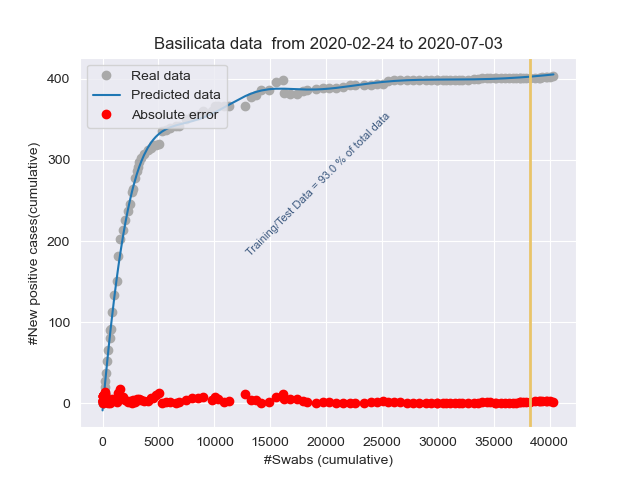
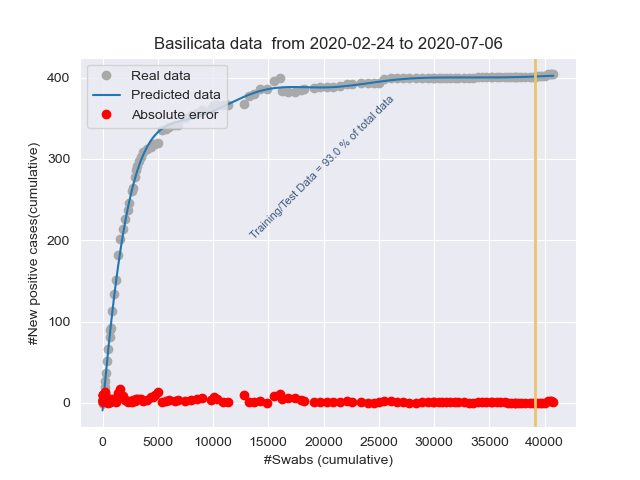
Add files via upload

diff --git a/stat_Friuli Venezia Giulia.html b/stat_Friuli Venezia Giulia.html
@@ -1,1 +1,1 @@
-<!DOCTYPE html><html lang="it"><head><title>Results</title><meta charset="utf-8"><meta name="viewport" content="width=device-width, initial-scale=1"><link rel="stylesheet" href="bootstrap.min.css"><script src="https://ajax.googleapis.com/ajax/libs/jquery/3.4.1/jquery.min.js"></script><script src="https://maxcdn.bootstrapcdn.com/bootstrap/3.4.1/js/bootstrap.min.js"></script></head><body><h3>Day: 2020-07-03</h3><p class="lead my-3">New positive cases: <b>4</b></p><p class="lead my-3">Variation of positive cases: <b>100.0%</b></p><p class="lead my-3">Number of swabs: <b>2580.0</b></p><p class="lead my-3">Variation of swabs: <b>1.33%</b></p><p class="lead my-3">Postive cases/Swabs: <b>0.16 %</b></p><p class="lead my-3">Number of people admitted to Intensive care: <b>0</b></p><p class="lead my-3">Number of recovered people: <b>-2.0</b></p><p class="lead my-3">Number of dead people: <b>0.0</b></p><h3>Total</h3><p class="lead my-3">Population of  Friuli Venezia Giulia: <b>1215220</b> <a href="http://dati.istat.it/Index.aspx?QueryId=18548" target="_blank">ISTAT data</a></p><p class="lead my-3">Total number of positive cases from 2020-02-24 00:00:00 to 2020-07-03: <b> 3318</b></p><p class="lead my-3">Total number of swabs from 2020-02-24 00:00:00 to 2020-07-03: <b> 196975</b></p><p class="lead my-3">TotalSwabs/Population: <b> 16.21%</b></p></body></html>
+<!DOCTYPE html><html lang="it"><head><title>Results</title><meta charset="utf-8"><meta name="viewport" content="width=device-width, initial-scale=1"><link rel="stylesheet" href="bootstrap.min.css"><script src="https://ajax.googleapis.com/ajax/libs/jquery/3.4.1/jquery.min.js"></script><script src="https://maxcdn.bootstrapcdn.com/bootstrap/3.4.1/js/bootstrap.min.js"></script></head><body><h3>Day: 2020-07-06</h3><p class="lead my-3">New positive cases: <b>0</b></p><p class="lead my-3">Variation of positive cases: <b>0.0%</b></p><p class="lead my-3">Number of swabs: <b>663.0</b></p><p class="lead my-3">Variation of swabs: <b>0.33%</b></p><p class="lead my-3">Postive cases/Swabs: <b>0.0 %</b></p><p class="lead my-3">Number of people admitted to Intensive care: <b>0</b></p><p class="lead my-3">Number of recovered people: <b>2.0</b></p><p class="lead my-3">Number of dead people: <b>0.0</b></p><h3>Total</h3><p class="lead my-3">Population of  Friuli Venezia Giulia: <b>1215220</b> <a href="http://dati.istat.it/Index.aspx?QueryId=18548" target="_blank">ISTAT data</a></p><p class="lead my-3">Total number of positive cases from 2020-02-24 00:00:00 to 2020-07-06: <b> 3326</b></p><p class="lead my-3">Total number of swabs from 2020-02-24 00:00:00 to 2020-07-06: <b> 200651</b></p><p class="lead my-3">TotalSwabs/Population: <b> 16.51%</b></p></body></html>

diff --git a/stat_Lombardia.html b/stat_Lombardia.html
@@ -1,1 +1,1 @@
-<!DOCTYPE html><html lang="it"><head><title>Results</title><meta charset="utf-8"><meta name="viewport" content="width=device-width, initial-scale=1"><link rel="stylesheet" href="bootstrap.min.css"><script src="https://ajax.googleapis.com/ajax/libs/jquery/3.4.1/jquery.min.js"></script><script src="https://maxcdn.bootstrapcdn.com/bootstrap/3.4.1/js/bootstrap.min.js"></script></head><body><h3>Day: 2020-07-03</h3><p class="lead my-3">New positive cases: <b>115</b></p><p class="lead my-3">Variation of positive cases: <b>17.35%</b></p><p class="lead my-3">Number of swabs: <b>9758.0</b></p><p class="lead my-3">Variation of swabs: <b>0.93%</b></p><p class="lead my-3">Postive cases/Swabs: <b>1.18 %</b></p><p class="lead my-3">Number of people admitted to Intensive care: <b>41</b></p><p class="lead my-3">Number of recovered people: <b>261.0</b></p><p class="lead my-3">Number of dead people: <b>4.0</b></p><h3>Total</h3><p class="lead my-3">Population of  Lombardia: <b>10060574</b> <a href="http://dati.istat.it/Index.aspx?QueryId=18548" target="_blank">ISTAT data</a></p><p class="lead my-3">Total number of positive cases from 2020-02-24 00:00:00 to 2020-07-03: <b> 94217</b></p><p class="lead my-3">Total number of swabs from 2020-02-24 00:00:00 to 2020-07-03: <b> 1064173</b></p><p class="lead my-3">TotalSwabs/Population: <b> 10.58%</b></p></body></html>
+<!DOCTYPE html><html lang="it"><head><title>Results</title><meta charset="utf-8"><meta name="viewport" content="width=device-width, initial-scale=1"><link rel="stylesheet" href="bootstrap.min.css"><script src="https://ajax.googleapis.com/ajax/libs/jquery/3.4.1/jquery.min.js"></script><script src="https://maxcdn.bootstrapcdn.com/bootstrap/3.4.1/js/bootstrap.min.js"></script></head><body><h3>Day: 2020-07-06</h3><p class="lead my-3">New positive cases: <b>111</b></p><p class="lead my-3">Variation of positive cases: <b>13.27%</b></p><p class="lead my-3">Number of swabs: <b>5855.0</b></p><p class="lead my-3">Variation of swabs: <b>0.54%</b></p><p class="lead my-3">Postive cases/Swabs: <b>1.9 %</b></p><p class="lead my-3">Number of people admitted to Intensive care: <b>36</b></p><p class="lead my-3">Number of recovered people: <b>61.0</b></p><p class="lead my-3">Number of dead people: <b>3.0</b></p><h3>Total</h3><p class="lead my-3">Population of  Lombardia: <b>10060574</b> <a href="http://dati.istat.it/Index.aspx?QueryId=18548" target="_blank">ISTAT data</a></p><p class="lead my-3">Total number of positive cases from 2020-02-24 00:00:00 to 2020-07-06: <b> 94521</b></p><p class="lead my-3">Total number of swabs from 2020-02-24 00:00:00 to 2020-07-06: <b> 1088960</b></p><p class="lead my-3">TotalSwabs/Population: <b> 10.82%</b></p></body></html>

diff --git a/stat_Emilia-Romagna.html b/stat_Emilia-Romagna.html
@@ -1,1 +1,1 @@
-<!DOCTYPE html><html lang="it"><head><title>Results</title><meta charset="utf-8"><meta name="viewport" content="width=device-width, initial-scale=1"><link rel="stylesheet" href="bootstrap.min.css"><script src="https://ajax.googleapis.com/ajax/libs/jquery/3.4.1/jquery.min.js"></script><script src="https://maxcdn.bootstrapcdn.com/bootstrap/3.4.1/js/bootstrap.min.js"></script></head><body><h3>Day: 2020-07-03</h3><p class="lead my-3">New positive cases: <b>27</b></p><p class="lead my-3">Variation of positive cases: <b>0.0%</b></p><p class="lead my-3">Number of swabs: <b>4403.0</b></p><p class="lead my-3">Variation of swabs: <b>0.87%</b></p><p class="lead my-3">Postive cases/Swabs: <b>0.61 %</b></p><p class="lead my-3">Number of people admitted to Intensive care: <b>9</b></p><p class="lead my-3">Number of recovered people: <b>17.0</b></p><p class="lead my-3">Number of dead people: <b>2.0</b></p><h3>Total</h3><p class="lead my-3">Population of  Emilia-Romagna: <b>4459477</b> <a href="http://dati.istat.it/Index.aspx?QueryId=18548" target="_blank">ISTAT data</a></p><p class="lead my-3">Total number of positive cases from 2020-02-24 00:00:00 to 2020-07-03: <b> 28566</b></p><p class="lead my-3">Total number of swabs from 2020-02-24 00:00:00 to 2020-07-03: <b> 508691</b></p><p class="lead my-3">TotalSwabs/Population: <b> 11.41%</b></p></body></html>
+<!DOCTYPE html><html lang="it"><head><title>Results</title><meta charset="utf-8"><meta name="viewport" content="width=device-width, initial-scale=1"><link rel="stylesheet" href="bootstrap.min.css"><script src="https://ajax.googleapis.com/ajax/libs/jquery/3.4.1/jquery.min.js"></script><script src="https://maxcdn.bootstrapcdn.com/bootstrap/3.4.1/js/bootstrap.min.js"></script></head><body><h3>Day: 2020-07-06</h3><p class="lead my-3">New positive cases: <b>38</b></p><p class="lead my-3">Variation of positive cases: <b>58.33%</b></p><p class="lead my-3">Number of swabs: <b>2371.0</b></p><p class="lead my-3">Variation of swabs: <b>0.46%</b></p><p class="lead my-3">Postive cases/Swabs: <b>1.6 %</b></p><p class="lead my-3">Number of people admitted to Intensive care: <b>9</b></p><p class="lead my-3">Number of recovered people: <b>3.0</b></p><p class="lead my-3">Number of dead people: <b>0.0</b></p><h3>Total</h3><p class="lead my-3">Population of  Emilia-Romagna: <b>4459477</b> <a href="http://dati.istat.it/Index.aspx?QueryId=18548" target="_blank">ISTAT data</a></p><p class="lead my-3">Total number of positive cases from 2020-02-24 00:00:00 to 2020-07-06: <b> 28679</b></p><p class="lead my-3">Total number of swabs from 2020-02-24 00:00:00 to 2020-07-06: <b> 519586</b></p><p class="lead my-3">TotalSwabs/Population: <b> 11.65%</b></p></body></html>

diff --git a/stat_Italy.html b/stat_Italy.html
@@ -1,1 +1,1 @@
-<!DOCTYPE html><html lang="it"><head><title>Results</title><meta charset="utf-8"><meta name="viewport" content="width=device-width, initial-scale=1"><link rel="stylesheet" href="bootstrap.min.css"><script src="https://ajax.googleapis.com/ajax/libs/jquery/3.4.1/jquery.min.js"></script><script src="https://maxcdn.bootstrapcdn.com/bootstrap/3.4.1/js/bootstrap.min.js"></script></head><body><h3>Day: 2020-07-03</h3><p class="lead my-3">New positive cases: <b>223</b></p><p class="lead my-3">Variation of positive cases: <b>10.95%</b></p><p class="lead my-3">Number of swabs: <b>77096.0</b></p><p class="lead my-3">Variation of swabs: <b>1.4%</b></p><p class="lead my-3">Postive cases/Swabs: <b>0.29 %</b></p><p class="lead my-3">Number of people admitted to Intensive care: <b>79</b></p><p class="lead my-3">Number of recovered people: <b>384.0</b></p><p class="lead my-3">Number of dead people: <b>15.0</b></p><h3>Total</h3><p class="lead my-3">Population of  Italy: <b>60359546</b> <a href="http://dati.istat.it/Index.aspx?QueryId=18548" target="_blank">ISTAT data</a></p><p class="lead my-3">Total number of positive cases from 2020-02-24 00:00:00 to 2020-07-03: <b> 241206</b></p><p class="lead my-3">Total number of swabs from 2020-02-24 00:00:00 to 2020-07-03: <b> 5575815</b></p><p class="lead my-3">TotalSwabs/Population: <b> 9.24%</b></p></body></html>
+<!DOCTYPE html><html lang="it"><head><title>Results</title><meta charset="utf-8"><meta name="viewport" content="width=device-width, initial-scale=1"><link rel="stylesheet" href="bootstrap.min.css"><script src="https://ajax.googleapis.com/ajax/libs/jquery/3.4.1/jquery.min.js"></script><script src="https://maxcdn.bootstrapcdn.com/bootstrap/3.4.1/js/bootstrap.min.js"></script></head><body><h3>Day: 2020-07-06</h3><p class="lead my-3">New positive cases: <b>208</b></p><p class="lead my-3">Variation of positive cases: <b>8.33%</b></p><p class="lead my-3">Number of swabs: <b>22166.0</b></p><p class="lead my-3">Variation of swabs: <b>0.39%</b></p><p class="lead my-3">Postive cases/Swabs: <b>0.94 %</b></p><p class="lead my-3">Number of people admitted to Intensive care: <b>72</b></p><p class="lead my-3">Number of recovered people: <b>133.0</b></p><p class="lead my-3">Number of dead people: <b>8.0</b></p><h3>Total</h3><p class="lead my-3">Population of  Italy: <b>60359546</b> <a href="http://dati.istat.it/Index.aspx?QueryId=18548" target="_blank">ISTAT data</a></p><p class="lead my-3">Total number of positive cases from 2020-02-24 00:00:00 to 2020-07-06: <b> 241841</b></p><p class="lead my-3">Total number of swabs from 2020-02-24 00:00:00 to 2020-07-06: <b> 5660454</b></p><p class="lead my-3">TotalSwabs/Population: <b> 9.38%</b></p></body></html>

diff --git a/stat_Piemonte.html b/stat_Piemonte.html
@@ -1,1 +1,1 @@
-<!DOCTYPE html><html lang="it"><head><title>Results</title><meta charset="utf-8"><meta name="viewport" content="width=device-width, initial-scale=1"><link rel="stylesheet" href="bootstrap.min.css"><script src="https://ajax.googleapis.com/ajax/libs/jquery/3.4.1/jquery.min.js"></script><script src="https://maxcdn.bootstrapcdn.com/bootstrap/3.4.1/js/bootstrap.min.js"></script></head><body><h3>Day: 2020-07-03</h3><p class="lead my-3">New positive cases: <b>16</b></p><p class="lead my-3">Variation of positive cases: <b>23.08%</b></p><p class="lead my-3">Number of swabs: <b>29405.0</b></p><p class="lead my-3">Variation of swabs: <b>6.96%</b></p><p class="lead my-3">Postive cases/Swabs: <b>0.05 %</b></p><p class="lead my-3">Number of people admitted to Intensive care: <b>10</b></p><p class="lead my-3">Number of recovered people: <b>36.0</b></p><p class="lead my-3">Number of dead people: <b>4.0</b></p><h3>Total</h3><p class="lead my-3">Population of  Piemonte: <b>4356406</b> <a href="http://dati.istat.it/Index.aspx?QueryId=18548" target="_blank">ISTAT data</a></p><p class="lead my-3">Total number of positive cases from 2020-02-24 00:00:00 to 2020-07-03: <b> 31394</b></p><p class="lead my-3">Total number of swabs from 2020-02-24 00:00:00 to 2020-07-03: <b> 452052</b></p><p class="lead my-3">TotalSwabs/Population: <b> 10.38%</b></p></body></html>
+<!DOCTYPE html><html lang="it"><head><title>Results</title><meta charset="utf-8"><meta name="viewport" content="width=device-width, initial-scale=1"><link rel="stylesheet" href="bootstrap.min.css"><script src="https://ajax.googleapis.com/ajax/libs/jquery/3.4.1/jquery.min.js"></script><script src="https://maxcdn.bootstrapcdn.com/bootstrap/3.4.1/js/bootstrap.min.js"></script></head><body><h3>Day: 2020-07-06</h3><p class="lead my-3">New positive cases: <b>6</b></p><p class="lead my-3">Variation of positive cases: <b>-66.67%</b></p><p class="lead my-3">Number of swabs: <b>1461.0</b></p><p class="lead my-3">Variation of swabs: <b>0.34%</b></p><p class="lead my-3">Postive cases/Swabs: <b>0.41 %</b></p><p class="lead my-3">Number of people admitted to Intensive care: <b>9</b></p><p class="lead my-3">Number of recovered people: <b>13.0</b></p><p class="lead my-3">Number of dead people: <b>2.0</b></p><h3>Total</h3><p class="lead my-3">Population of  Piemonte: <b>4356406</b> <a href="http://dati.istat.it/Index.aspx?QueryId=18548" target="_blank">ISTAT data</a></p><p class="lead my-3">Total number of positive cases from 2020-02-24 00:00:00 to 2020-07-06: <b> 31429</b></p><p class="lead my-3">Total number of swabs from 2020-02-24 00:00:00 to 2020-07-06: <b> 431761</b></p><p class="lead my-3">TotalSwabs/Population: <b> 9.91%</b></p></body></html>

diff --git a/stat_Campania.html b/stat_Campania.html
@@ -1,1 +1,1 @@
-<!DOCTYPE html><html lang="it"><head><title>Results</title><meta charset="utf-8"><meta name="viewport" content="width=device-width, initial-scale=1"><link rel="stylesheet" href="bootstrap.min.css"><script src="https://ajax.googleapis.com/ajax/libs/jquery/3.4.1/jquery.min.js"></script><script src="https://maxcdn.bootstrapcdn.com/bootstrap/3.4.1/js/bootstrap.min.js"></script></head><body><h3>Day: 2020-07-03</h3><p class="lead my-3">New positive cases: <b>10</b></p><p class="lead my-3">Variation of positive cases: <b>233.33%</b></p><p class="lead my-3">Number of swabs: <b>2441.0</b></p><p class="lead my-3">Variation of swabs: <b>0.85%</b></p><p class="lead my-3">Postive cases/Swabs: <b>0.41 %</b></p><p class="lead my-3">Number of people admitted to Intensive care: <b>0</b></p><p class="lead my-3">Number of recovered people: <b>3.0</b></p><p class="lead my-3">Number of dead people: <b>0.0</b></p><h3>Total</h3><p class="lead my-3">Population of  Campania: <b>5801692</b> <a href="http://dati.istat.it/Index.aspx?QueryId=18548" target="_blank">ISTAT data</a></p><p class="lead my-3">Total number of positive cases from 2020-02-24 00:00:00 to 2020-07-03: <b> 4712</b></p><p class="lead my-3">Total number of swabs from 2020-02-24 00:00:00 to 2020-07-03: <b> 289253</b></p><p class="lead my-3">TotalSwabs/Population: <b> 4.99%</b></p></body></html>
+<!DOCTYPE html><html lang="it"><head><title>Results</title><meta charset="utf-8"><meta name="viewport" content="width=device-width, initial-scale=1"><link rel="stylesheet" href="bootstrap.min.css"><script src="https://ajax.googleapis.com/ajax/libs/jquery/3.4.1/jquery.min.js"></script><script src="https://maxcdn.bootstrapcdn.com/bootstrap/3.4.1/js/bootstrap.min.js"></script></head><body><h3>Day: 2020-07-06</h3><p class="lead my-3">New positive cases: <b>27</b></p><p class="lead my-3">Variation of positive cases: <b>440.0%</b></p><p class="lead my-3">Number of swabs: <b>775.0</b></p><p class="lead my-3">Variation of swabs: <b>0.26%</b></p><p class="lead my-3">Postive cases/Swabs: <b>3.48 %</b></p><p class="lead my-3">Number of people admitted to Intensive care: <b>0</b></p><p class="lead my-3">Number of recovered people: <b>1.0</b></p><p class="lead my-3">Number of dead people: <b>0.0</b></p><h3>Total</h3><p class="lead my-3">Population of  Campania: <b>5801692</b> <a href="http://dati.istat.it/Index.aspx?QueryId=18548" target="_blank">ISTAT data</a></p><p class="lead my-3">Total number of positive cases from 2020-02-24 00:00:00 to 2020-07-06: <b> 4746</b></p><p class="lead my-3">Total number of swabs from 2020-02-24 00:00:00 to 2020-07-06: <b> 293368</b></p><p class="lead my-3">TotalSwabs/Population: <b> 5.06%</b></p></body></html>

diff --git a/stat_P.A. Trento.html b/stat_P.A. Trento.html
@@ -1,1 +1,1 @@
-<!DOCTYPE html><html lang="it"><head><title>Results</title><meta charset="utf-8"><meta name="viewport" content="width=device-width, initial-scale=1"><link rel="stylesheet" href="bootstrap.min.css"><script src="https://ajax.googleapis.com/ajax/libs/jquery/3.4.1/jquery.min.js"></script><script src="https://maxcdn.bootstrapcdn.com/bootstrap/3.4.1/js/bootstrap.min.js"></script></head><body><h3>Day: 2020-07-03</h3><p class="lead my-3">New positive cases: <b>6</b></p><p class="lead my-3">Variation of positive cases: <b>500.0%</b></p><p class="lead my-3">Number of swabs: <b>1342.0</b></p><p class="lead my-3">Variation of swabs: <b>1.08%</b></p><p class="lead my-3">Postive cases/Swabs: <b>0.45 %</b></p><p class="lead my-3">Number of people admitted to Intensive care: <b>0</b></p><p class="lead my-3">Number of recovered people: <b>6.0</b></p><p class="lead my-3">Number of dead people: <b>0.0</b></p><h3>Total</h3><p class="lead my-3">Population of  P.A. Trento: <b>541098</b> <a href="http://dati.istat.it/Index.aspx?QueryId=18548" target="_blank">ISTAT data</a></p><p class="lead my-3">Total number of positive cases from 2020-02-24 00:00:00 to 2020-07-03: <b> 4484</b></p><p class="lead my-3">Total number of swabs from 2020-02-24 00:00:00 to 2020-07-03: <b> 125206</b></p><p class="lead my-3">TotalSwabs/Population: <b> 23.14%</b></p></body></html>
+<!DOCTYPE html><html lang="it"><head><title>Results</title><meta charset="utf-8"><meta name="viewport" content="width=device-width, initial-scale=1"><link rel="stylesheet" href="bootstrap.min.css"><script src="https://ajax.googleapis.com/ajax/libs/jquery/3.4.1/jquery.min.js"></script><script src="https://maxcdn.bootstrapcdn.com/bootstrap/3.4.1/js/bootstrap.min.js"></script></head><body><h3>Day: 2020-07-06</h3><p class="lead my-3">New positive cases: <b>0</b></p><p class="lead my-3">Variation of positive cases: <b>0.0%</b></p><p class="lead my-3">Number of swabs: <b>143.0</b></p><p class="lead my-3">Variation of swabs: <b>0.11%</b></p><p class="lead my-3">Postive cases/Swabs: <b>0.0 %</b></p><p class="lead my-3">Number of people admitted to Intensive care: <b>0</b></p><p class="lead my-3">Number of recovered people: <b>5.0</b></p><p class="lead my-3">Number of dead people: <b>0.0</b></p><h3>Total</h3><p class="lead my-3">Population of  P.A. Trento: <b>541098</b> <a href="http://dati.istat.it/Index.aspx?QueryId=18548" target="_blank">ISTAT data</a></p><p class="lead my-3">Total number of positive cases from 2020-02-24 00:00:00 to 2020-07-06: <b> 4486</b></p><p class="lead my-3">Total number of swabs from 2020-02-24 00:00:00 to 2020-07-06: <b> 128029</b></p><p class="lead my-3">TotalSwabs/Population: <b> 23.66%</b></p></body></html>

diff --git a/stat_Veneto.html b/stat_Veneto.html
@@ -1,1 +1,1 @@
-<!DOCTYPE html><html lang="it"><head><title>Results</title><meta charset="utf-8"><meta name="viewport" content="width=device-width, initial-scale=1"><link rel="stylesheet" href="bootstrap.min.css"><script src="https://ajax.googleapis.com/ajax/libs/jquery/3.4.1/jquery.min.js"></script><script src="https://maxcdn.bootstrapcdn.com/bootstrap/3.4.1/js/bootstrap.min.js"></script></head><body><h3>Day: 2020-07-03</h3><p class="lead my-3">New positive cases: <b>5</b></p><p class="lead my-3">Variation of positive cases: <b>-75.0%</b></p><p class="lead my-3">Number of swabs: <b>9954.0</b></p><p class="lead my-3">Variation of swabs: <b>1.01%</b></p><p class="lead my-3">Postive cases/Swabs: <b>0.05 %</b></p><p class="lead my-3">Number of people admitted to Intensive care: <b>0</b></p><p class="lead my-3">Number of recovered people: <b>11.0</b></p><p class="lead my-3">Number of dead people: <b>1.0</b></p><h3>Total</h3><p class="lead my-3">Population of  Veneto: <b>4905854</b> <a href="http://dati.istat.it/Index.aspx?QueryId=18548" target="_blank">ISTAT data</a></p><p class="lead my-3">Total number of positive cases from 2020-02-24 00:00:00 to 2020-07-03: <b> 19313</b></p><p class="lead my-3">Total number of swabs from 2020-02-24 00:00:00 to 2020-07-03: <b> 992568</b></p><p class="lead my-3">TotalSwabs/Population: <b> 20.23%</b></p></body></html>
+<!DOCTYPE html><html lang="it"><head><title>Results</title><meta charset="utf-8"><meta name="viewport" content="width=device-width, initial-scale=1"><link rel="stylesheet" href="bootstrap.min.css"><script src="https://ajax.googleapis.com/ajax/libs/jquery/3.4.1/jquery.min.js"></script><script src="https://maxcdn.bootstrapcdn.com/bootstrap/3.4.1/js/bootstrap.min.js"></script></head><body><h3>Day: 2020-07-06</h3><p class="lead my-3">New positive cases: <b>1</b></p><p class="lead my-3">Variation of positive cases: <b>-87.5%</b></p><p class="lead my-3">Number of swabs: <b>3402.0</b></p><p class="lead my-3">Variation of swabs: <b>0.34%</b></p><p class="lead my-3">Postive cases/Swabs: <b>0.03 %</b></p><p class="lead my-3">Number of people admitted to Intensive care: <b>2</b></p><p class="lead my-3">Number of recovered people: <b>4.0</b></p><p class="lead my-3">Number of dead people: <b>1.0</b></p><h3>Total</h3><p class="lead my-3">Population of  Veneto: <b>4905854</b> <a href="http://dati.istat.it/Index.aspx?QueryId=18548" target="_blank">ISTAT data</a></p><p class="lead my-3">Total number of positive cases from 2020-02-24 00:00:00 to 2020-07-06: <b> 19326</b></p><p class="lead my-3">Total number of swabs from 2020-02-24 00:00:00 to 2020-07-06: <b> 1013235</b></p><p class="lead my-3">TotalSwabs/Population: <b> 20.65%</b></p></body></html>

diff --git a/stat_P.A. Bolzano.html b/stat_P.A. Bolzano.html
@@ -1,1 +1,1 @@
-<!DOCTYPE html><html lang="it"><head><title>Results</title><meta charset="utf-8"><meta name="viewport" content="width=device-width, initial-scale=1"><link rel="stylesheet" href="bootstrap.min.css"><script src="https://ajax.googleapis.com/ajax/libs/jquery/3.4.1/jquery.min.js"></script><script src="https://maxcdn.bootstrapcdn.com/bootstrap/3.4.1/js/bootstrap.min.js"></script></head><body><h3>Day: 2020-07-03</h3><p class="lead my-3">New positive cases: <b>0</b></p><p class="lead my-3">Variation of positive cases: <b>0.0%</b></p><p class="lead my-3">Number of swabs: <b>515.0</b></p><p class="lead my-3">Variation of swabs: <b>0.6%</b></p><p class="lead my-3">Postive cases/Swabs: <b>0.0 %</b></p><p class="lead my-3">Number of people admitted to Intensive care: <b>0</b></p><p class="lead my-3">Number of recovered people: <b>1.0</b></p><p class="lead my-3">Number of dead people: <b>0.0</b></p><h3>Total</h3><p class="lead my-3">Population of  P.A. Bolzano: <b>531178</b> <a href="http://dati.istat.it/Index.aspx?QueryId=18548" target="_blank">ISTAT data</a></p><p class="lead my-3">Total number of positive cases from 2020-02-24 00:00:00 to 2020-07-03: <b> 2641</b></p><p class="lead my-3">Total number of swabs from 2020-02-24 00:00:00 to 2020-07-03: <b> 85938</b></p><p class="lead my-3">TotalSwabs/Population: <b> 16.18%</b></p></body></html>
+<!DOCTYPE html><html lang="it"><head><title>Results</title><meta charset="utf-8"><meta name="viewport" content="width=device-width, initial-scale=1"><link rel="stylesheet" href="bootstrap.min.css"><script src="https://ajax.googleapis.com/ajax/libs/jquery/3.4.1/jquery.min.js"></script><script src="https://maxcdn.bootstrapcdn.com/bootstrap/3.4.1/js/bootstrap.min.js"></script></head><body><h3>Day: 2020-07-06</h3><p class="lead my-3">New positive cases: <b>0</b></p><p class="lead my-3">Variation of positive cases: <b>-100.0%</b></p><p class="lead my-3">Number of swabs: <b>156.0</b></p><p class="lead my-3">Variation of swabs: <b>0.18%</b></p><p class="lead my-3">Postive cases/Swabs: <b>0.0 %</b></p><p class="lead my-3">Number of people admitted to Intensive care: <b>0</b></p><p class="lead my-3">Number of recovered people: <b>2.0</b></p><p class="lead my-3">Number of dead people: <b>0.0</b></p><h3>Total</h3><p class="lead my-3">Population of  P.A. Bolzano: <b>531178</b> <a href="http://dati.istat.it/Index.aspx?QueryId=18548" target="_blank">ISTAT data</a></p><p class="lead my-3">Total number of positive cases from 2020-02-24 00:00:00 to 2020-07-06: <b> 2646</b></p><p class="lead my-3">Total number of swabs from 2020-02-24 00:00:00 to 2020-07-06: <b> 87392</b></p><p class="lead my-3">TotalSwabs/Population: <b> 16.45%</b></p></body></html>

diff --git a/stat_Toscana.html b/stat_Toscana.html
@@ -1,1 +1,1 @@
-<!DOCTYPE html><html lang="it"><head><title>Results</title><meta charset="utf-8"><meta name="viewport" content="width=device-width, initial-scale=1"><link rel="stylesheet" href="bootstrap.min.css"><script src="https://ajax.googleapis.com/ajax/libs/jquery/3.4.1/jquery.min.js"></script><script src="https://maxcdn.bootstrapcdn.com/bootstrap/3.4.1/js/bootstrap.min.js"></script></head><body><h3>Day: 2020-07-03</h3><p class="lead my-3">New positive cases: <b>9</b></p><p class="lead my-3">Variation of positive cases: <b>125.0%</b></p><p class="lead my-3">Number of swabs: <b>2744.0</b></p><p class="lead my-3">Variation of swabs: <b>0.8%</b></p><p class="lead my-3">Postive cases/Swabs: <b>0.33 %</b></p><p class="lead my-3">Number of people admitted to Intensive care: <b>3</b></p><p class="lead my-3">Number of recovered people: <b>7.0</b></p><p class="lead my-3">Number of dead people: <b>3.0</b></p><h3>Total</h3><p class="lead my-3">Population of  Toscana: <b>3729641</b> <a href="http://dati.istat.it/Index.aspx?QueryId=18548" target="_blank">ISTAT data</a></p><p class="lead my-3">Total number of positive cases from 2020-02-24 00:00:00 to 2020-07-03: <b> 10267</b></p><p class="lead my-3">Total number of swabs from 2020-02-24 00:00:00 to 2020-07-03: <b> 347127</b></p><p class="lead my-3">TotalSwabs/Population: <b> 9.31%</b></p></body></html>
+<!DOCTYPE html><html lang="it"><head><title>Results</title><meta charset="utf-8"><meta name="viewport" content="width=device-width, initial-scale=1"><link rel="stylesheet" href="bootstrap.min.css"><script src="https://ajax.googleapis.com/ajax/libs/jquery/3.4.1/jquery.min.js"></script><script src="https://maxcdn.bootstrapcdn.com/bootstrap/3.4.1/js/bootstrap.min.js"></script></head><body><h3>Day: 2020-07-06</h3><p class="lead my-3">New positive cases: <b>2</b></p><p class="lead my-3">Variation of positive cases: <b>-77.78%</b></p><p class="lead my-3">Number of swabs: <b>1313.0</b></p><p class="lead my-3">Variation of swabs: <b>0.37%</b></p><p class="lead my-3">Postive cases/Swabs: <b>0.15 %</b></p><p class="lead my-3">Number of people admitted to Intensive care: <b>2</b></p><p class="lead my-3">Number of recovered people: <b>0.0</b></p><p class="lead my-3">Number of dead people: <b>0.0</b></p><h3>Total</h3><p class="lead my-3">Population of  Toscana: <b>3729641</b> <a href="http://dati.istat.it/Index.aspx?QueryId=18548" target="_blank">ISTAT data</a></p><p class="lead my-3">Total number of positive cases from 2020-02-24 00:00:00 to 2020-07-06: <b> 10287</b></p><p class="lead my-3">Total number of swabs from 2020-02-24 00:00:00 to 2020-07-06: <b> 353862</b></p><p class="lead my-3">TotalSwabs/Population: <b> 9.49%</b></p></body></html>

diff --git a/stat_Lazio.html b/stat_Lazio.html
@@ -1,1 +1,1 @@
-<!DOCTYPE html><html lang="it"><head><title>Results</title><meta charset="utf-8"><meta name="viewport" content="width=device-width, initial-scale=1"><link rel="stylesheet" href="bootstrap.min.css"><script src="https://ajax.googleapis.com/ajax/libs/jquery/3.4.1/jquery.min.js"></script><script src="https://maxcdn.bootstrapcdn.com/bootstrap/3.4.1/js/bootstrap.min.js"></script></head><body><h3>Day: 2020-07-03</h3><p class="lead my-3">New positive cases: <b>11</b></p><p class="lead my-3">Variation of positive cases: <b>0.0%</b></p><p class="lead my-3">Number of swabs: <b>2357.0</b></p><p class="lead my-3">Variation of swabs: <b>0.69%</b></p><p class="lead my-3">Postive cases/Swabs: <b>0.47 %</b></p><p class="lead my-3">Number of people admitted to Intensive care: <b>11</b></p><p class="lead my-3">Number of recovered people: <b>15.0</b></p><p class="lead my-3">Number of dead people: <b>1.0</b></p><h3>Total</h3><p class="lead my-3">Population of  Lazio: <b>5879082</b> <a href="http://dati.istat.it/Index.aspx?QueryId=18548" target="_blank">ISTAT data</a></p><p class="lead my-3">Total number of positive cases from 2020-02-24 00:00:00 to 2020-07-03: <b> 8140</b></p><p class="lead my-3">Total number of swabs from 2020-02-24 00:00:00 to 2020-07-03: <b> 346239</b></p><p class="lead my-3">TotalSwabs/Population: <b> 5.89%</b></p></body></html>
+<!DOCTYPE html><html lang="it"><head><title>Results</title><meta charset="utf-8"><meta name="viewport" content="width=device-width, initial-scale=1"><link rel="stylesheet" href="bootstrap.min.css"><script src="https://ajax.googleapis.com/ajax/libs/jquery/3.4.1/jquery.min.js"></script><script src="https://maxcdn.bootstrapcdn.com/bootstrap/3.4.1/js/bootstrap.min.js"></script></head><body><h3>Day: 2020-07-06</h3><p class="lead my-3">New positive cases: <b>19</b></p><p class="lead my-3">Variation of positive cases: <b>35.71%</b></p><p class="lead my-3">Number of swabs: <b>2298.0</b></p><p class="lead my-3">Variation of swabs: <b>0.65%</b></p><p class="lead my-3">Postive cases/Swabs: <b>0.83 %</b></p><p class="lead my-3">Number of people admitted to Intensive care: <b>12</b></p><p class="lead my-3">Number of recovered people: <b>9.0</b></p><p class="lead my-3">Number of dead people: <b>1.0</b></p><h3>Total</h3><p class="lead my-3">Population of  Lazio: <b>5879082</b> <a href="http://dati.istat.it/Index.aspx?QueryId=18548" target="_blank">ISTAT data</a></p><p class="lead my-3">Total number of positive cases from 2020-02-24 00:00:00 to 2020-07-06: <b> 8204</b></p><p class="lead my-3">Total number of swabs from 2020-02-24 00:00:00 to 2020-07-06: <b> 353276</b></p><p class="lead my-3">TotalSwabs/Population: <b> 6.01%</b></p></body></html>

diff --git a/stat_Liguria.html b/stat_Liguria.html
@@ -1,1 +1,1 @@
-<!DOCTYPE html><html lang="it"><head><title>Results</title><meta charset="utf-8"><meta name="viewport" content="width=device-width, initial-scale=1"><link rel="stylesheet" href="bootstrap.min.css"><script src="https://ajax.googleapis.com/ajax/libs/jquery/3.4.1/jquery.min.js"></script><script src="https://maxcdn.bootstrapcdn.com/bootstrap/3.4.1/js/bootstrap.min.js"></script></head><body><h3>Day: 2020-07-03</h3><p class="lead my-3">New positive cases: <b>3</b></p><p class="lead my-3">Variation of positive cases: <b>50.0%</b></p><p class="lead my-3">Number of swabs: <b>1414.0</b></p><p class="lead my-3">Variation of swabs: <b>0.94%</b></p><p class="lead my-3">Postive cases/Swabs: <b>0.21 %</b></p><p class="lead my-3">Number of people admitted to Intensive care: <b>3</b></p><p class="lead my-3">Number of recovered people: <b>1.0</b></p><p class="lead my-3">Number of dead people: <b>0.0</b></p><h3>Total</h3><p class="lead my-3">Population of  Liguria: <b>1550640</b> <a href="http://dati.istat.it/Index.aspx?QueryId=18548" target="_blank">ISTAT data</a></p><p class="lead my-3">Total number of positive cases from 2020-02-24 00:00:00 to 2020-07-03: <b> 9987</b></p><p class="lead my-3">Total number of swabs from 2020-02-24 00:00:00 to 2020-07-03: <b> 151324</b></p><p class="lead my-3">TotalSwabs/Population: <b> 9.76%</b></p></body></html>
+<!DOCTYPE html><html lang="it"><head><title>Results</title><meta charset="utf-8"><meta name="viewport" content="width=device-width, initial-scale=1"><link rel="stylesheet" href="bootstrap.min.css"><script src="https://ajax.googleapis.com/ajax/libs/jquery/3.4.1/jquery.min.js"></script><script src="https://maxcdn.bootstrapcdn.com/bootstrap/3.4.1/js/bootstrap.min.js"></script></head><body><h3>Day: 2020-07-06</h3><p class="lead my-3">New positive cases: <b>2</b></p><p class="lead my-3">Variation of positive cases: <b>-75.0%</b></p><p class="lead my-3">Number of swabs: <b>575.0</b></p><p class="lead my-3">Variation of swabs: <b>0.37%</b></p><p class="lead my-3">Postive cases/Swabs: <b>0.35 %</b></p><p class="lead my-3">Number of people admitted to Intensive care: <b>0</b></p><p class="lead my-3">Number of recovered people: <b>2.0</b></p><p class="lead my-3">Number of dead people: <b>0.0</b></p><h3>Total</h3><p class="lead my-3">Population of  Liguria: <b>1550640</b> <a href="http://dati.istat.it/Index.aspx?QueryId=18548" target="_blank">ISTAT data</a></p><p class="lead my-3">Total number of positive cases from 2020-02-24 00:00:00 to 2020-07-06: <b> 10001</b></p><p class="lead my-3">Total number of swabs from 2020-02-24 00:00:00 to 2020-07-06: <b> 154636</b></p><p class="lead my-3">TotalSwabs/Population: <b> 9.97%</b></p></body></html>
